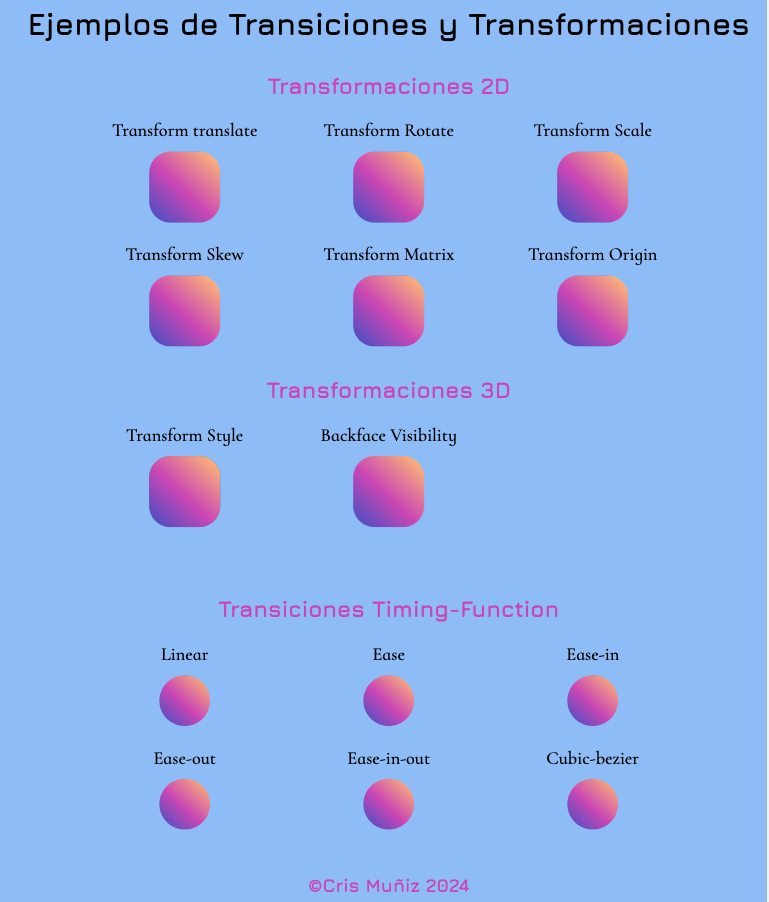
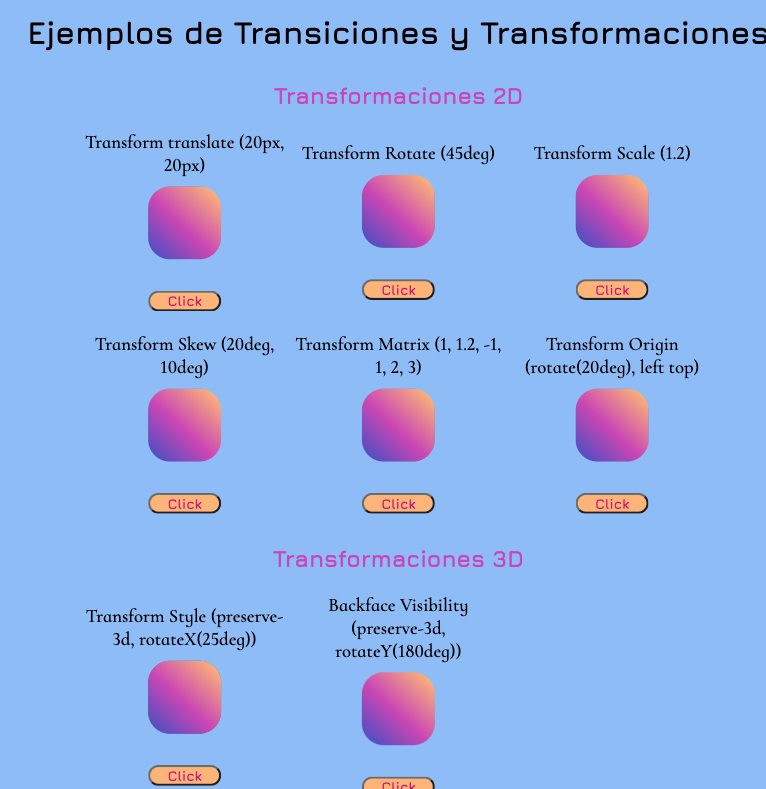
change README and buttons

diff --git a/index.html b/index.html
@@ -29,38 +29,38 @@
           <li>
             Transform translate (20px, 20px)
             <div class="box js_translate" ></div>
-            <button class="btn js_btn1">probar</button>
+            <button class="btn js_btn1">Click</button>
           </li>
           <li>
             Transform Rotate (45deg)
             <div class="box js_rotate"></div>
-            <button class="btn js_btn2">probar</button>
+            <button class="btn js_btn2">Click</button>
           </li>
           <li>
             Transform Scale (1.2)
             <div class="box js_scale"></div>
-            <button class="btn js_btn3">probar</button>
+            <button class="btn js_btn3">Click</button>
           </li>
           <li>
             Transform Skew (20deg, 10deg)
             <div class="box js_skew"></div>
-            <button class="btn js_btn4">probar</button>
+            <button class="btn js_btn4">Click</button>
           </li>
           <li>
             Transform Matrix (1, 1.2, -1, 1, 2, 3)
             <div class="box js_matrix"></div>
-            <button class="btn js_btn5">probar</button>
+            <button class="btn js_btn5">Click</button>
           </li>
           <li>
             Transform Origin (rotate(20deg), left top)
             <div class="box js_origin"></div>
-            <button class="btn js_btn6">probar</button>
+            <button class="btn js_btn6">Click</button>
           </li>
         </ul>
         <h1 class="mainTitle"> Transformaciones 3D</h1>
         <ul class="list">
             <li>Transform Style (preserve-3d, rotateX(25deg))<div class="transform3d"> <div class="boxTransf3d js_style"></div></div>
-              <button class="btn js_btn7">probar</button>
+              <button class="btn js_btn7">Click</button>
             </li>
             <li>Backface Visibility (preserve-3d, rotateY(180deg))
               <div class="backface js_backface">
@@ -68,29 +68,29 @@
 
                 </div class=" back "></div>
               </div>
-              <button class="btn js_btn8">probar</button>
+              <button class="btn js_btn8">Click</button>
             </li>
         </ul>
         <div class="go"><a href="./parallax-paracaidista.html">Efecto Parallax</a></div>
         <h1 class="mainTitle">Transiciones Timing-Function</h1>
         <ul class="list">
             <li>Linear<div class="ball js_linear"></div>
-              <button class="btn js_btn9">probar</button>
+              <button class="btn js_btn9">Click</button>
             </li>
             <li>Ease<div class="ball js_ease"></div>
-              <button class="btn js_btn10">probar</button>
+              <button class="btn js_btn10">Click</button>
             </li>
             <li>Ease-in<div class="ball js_easeIn"></div>
-              <button class="btn js_btn11">probar</button>
+              <button class="btn js_btn11">Click</button>
             </li>
             <li>Ease-out<div class="ball js_easeOut"></div>
-              <button class="btn js_btn12">probar</button>
+              <button class="btn js_btn12">Click</button>
             </li>
             <li>Ease-in-out<div class="ball js_easeInOut"></div>
-              <button class="btn js_btn13">probar</button>
+              <button class="btn js_btn13">Click</button>
             </li>
             <li>Cubic-bezier<div class="ball js_cubicBezier"></div>
-              <button class="btn js_btn14">probar</button>
+              <button class="btn js_btn14">Click</button>
             </li>
         </ul>
       </main>

diff --git a/style.css b/style.css
@@ -60,6 +60,14 @@
 }
 .btn {
     margin-top: 30px;
+    color:#C71585 ;
+    font-family: "jura", sans-serif;
+    font-weight:bold;
+    background-color: #f8bd7d;
+    width: 70px;
+    border-radius: 20px;
+    display: flex;
+    justify-content: center;
 }
 
 .box.box2 {
@@ -282,6 +290,9 @@ footer {
     .box{
         width: 90px;
         height: 90px;
+    }
+    .btn {
+        font-size: 16px;
     }
     .transform3d {
         width: 90px;
